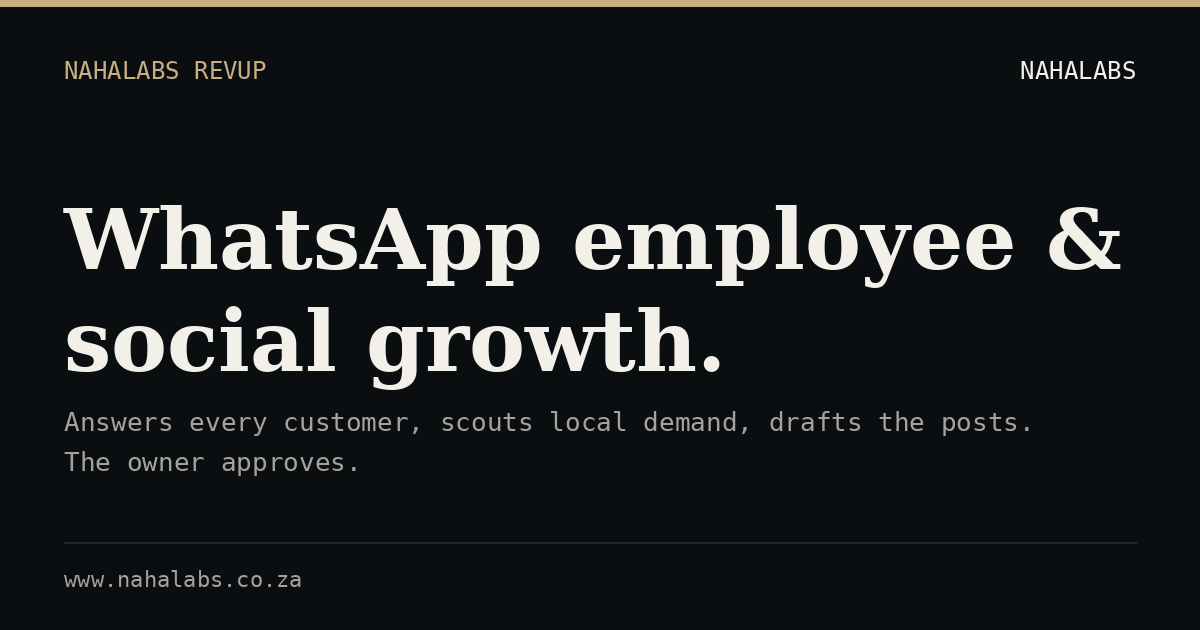
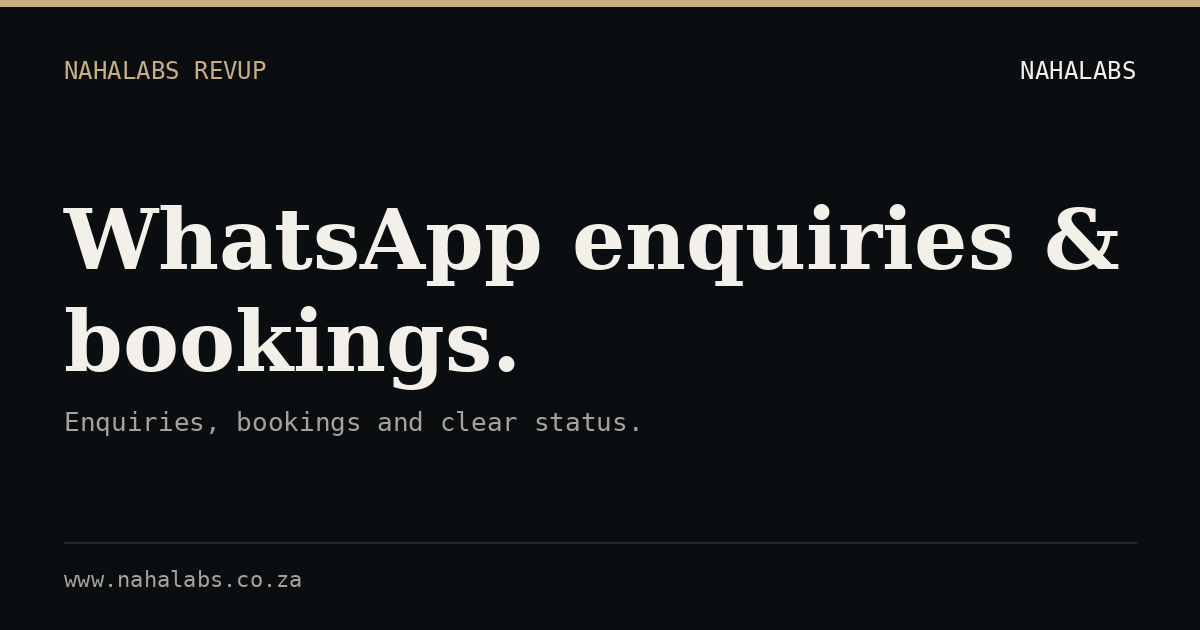
Align RevUp page with proven live capabilities and active app

diff --git a/src/components/RevUpPage.tsx b/src/components/RevUpPage.tsx
@@ -3,19 +3,17 @@ import { ArrowRight, ArrowUpRight, Check } from 'lucide-react';
 
 const SITE = 'https://www.nahalabs.co.za';
 const PATH = '/revup';
-const APP_URL = 'https://nahalabs-growth.onrender.com';
-const API_DOCS_URL = 'https://nahalabs-growth.onrender.com/api/v1/docs';
-const TITLE = 'RevUp | WhatsApp Employee & Social Growth Engine | NahaLabs';
+const APP_URL = 'https://revup.nahalabs.co.za';
+const API_DOCS_URL = 'https://revup.nahalabs.co.za/api/v1/docs';
+const TITLE = 'RevUp | WhatsApp Receptionist for Small Businesses | NahaLabs';
 const DESCRIPTION =
-  "RevUp is NahaLabs' growth system for restaurants and local businesses: pair the business WhatsApp in minutes, answer every customer, scout local demand and turn it into social posts the owner approves.";
+  "RevUp helps South African small businesses handle WhatsApp enquiries, calendar bookings and Google review requests.";
 
 const capabilities = [
-  ['WhatsApp employee', 'Answers menu, price, hours and booking questions on the business number, day and night. Every conversation is recorded for the owner.'],
-  ['Pairing in minutes', "Phone number and a one-time code on NahaLabs' own WhatsApp system. No Meta approval queue, no developer account, no waiting."],
-  ['Demand radar', 'Watches local food trends and what nearby customers are asking for, so the menu and the marketing move first.'],
-  ['Content agent', 'Turns demand signals and real customer questions into post drafts in the business voice. The owner steers niche, topics and pace - or switches it off.'],
-  ['Approval-first publishing', 'Nothing posts itself. Drafts land in a review queue; approved posts are scheduled and published to the connected social channels.'],
-  ['Inbox and analytics', 'One inbox for customer messages with drafted replies, plus per-post and per-channel analytics that show what the content earns.'],
+  ['WhatsApp receptionist', 'Handle customer enquiries on your business WhatsApp and hand over when a person should step in.'],
+  ['Calendar bookings', 'Keep booking requests and calendar availability together. A held booking is labelled honestly, not presented as confirmed.'],
+  ['Google review booster', 'A review-request capability for happy customers. Review the message and recipient before using it.'],
+  ['Plain-language numbers', 'See the workspace dashboard and analytics without technical jargon.'],
 ];
 
 const getJsonLd = () => ({
@@ -44,7 +42,7 @@ const getJsonLd = () => ({
       '@type': 'Service',
       '@id': SITE + PATH + '#service',
       name: 'RevUp',
-      serviceType: 'Customer engagement and social growth for restaurants and local businesses',
+      serviceType: 'WhatsApp enquiries and bookings for South African small businesses',
       provider: { '@id': SITE + '/#organization' },
       areaServed: { '@type': 'Country', name: 'South Africa' },
       url: SITE + PATH,
@@ -99,12 +97,12 @@ export const RevUpPage: React.FC = () => {
         <section className="section border-b border-line">
           <div className="wrap">
             <div className="max-w-4xl">
-              <p className="text-caption font-mono uppercase tracking-[0.2em] text-accent">NAHALABS / RESTAURANT &amp; LOCAL BUSINESS GROWTH</p>
+              <p className="text-caption font-mono uppercase tracking-[0.2em] text-accent">NAHALABS / SOUTH AFRICAN SMALL BUSINESSES</p>
               <h1 className="mt-5 text-display font-semibold tracking-tight">
-                Your WhatsApp line should do more than answer messages.
+                Never miss an enquiry. Keep control of the reply.
               </h1>
               <p className="mt-7 max-w-3xl text-lead text-fg-2">
-                RevUp is a growth system for restaurants and local businesses. It pairs with the business WhatsApp by phone number and code, answers every customer, scouts local demand and turns what it learns into social posts the owner approves before anything goes out.
+                RevUp helps South African small businesses handle WhatsApp enquiries, calendar bookings and Google review requests.
               </p>
               <div className="mt-8 flex flex-wrap gap-3">
                 <a href={APP_URL} className="btn btn-primary">
@@ -116,13 +114,12 @@ export const RevUpPage: React.FC = () => {
               </div>
             </div>
 
-            <div className="mt-14 grid md:grid-cols-5 border-y border-line">
+            <div className="mt-14 grid md:grid-cols-4 border-y border-line">
               {[
-                ['01', 'Pair', 'Phone number and a code. Live in minutes.'],
-                ['02', 'Answer', 'Every customer gets a reply, day and night.'],
-                ['03', 'Scout', 'Local demand surfaces before it is obvious.'],
-                ['04', 'Draft', 'Posts written from real trends and real chats.'],
-                ['05', 'Publish', 'The owner approves. The system posts.'],
+                ['01', 'Sign up', 'Create a private workspace. No payment at signup.'],
+                ['02', 'Enquiries', 'Set up the WhatsApp receptionist.'],
+                ['03', 'Bookings', 'Review calendar bookings and held requests.'],
+                ['04', 'Review', 'Check conversations and workspace numbers.'],
               ].map(([number, title, body]) => (
                 <div key={number} className="py-5 pr-5 border-b md:border-b-0 md:border-r last:border-r-0 border-line">
                   <div className="text-caption font-mono text-fg-3">{number}</div>
@@ -138,14 +135,14 @@ export const RevUpPage: React.FC = () => {
           <div className="wrap grid lg:grid-cols-2 gap-12">
             <div>
               <p className="text-caption font-mono uppercase tracking-[0.2em] text-accent">THE OLD WORKFLOW</p>
-              <h2 className="mt-3 text-h1 font-semibold">Missed message → lost customer → no time to post → invisible online.</h2>
+              <h2 className="mt-3 text-h1 font-semibold">Customer enquiries should not get lost in a busy day.</h2>
             </div>
             <div className="space-y-5 text-body leading-relaxed text-fg-2">
               <p>
-                Restaurants rarely lose business because the food is wrong. They lose it in the gaps: the lunch-time enquiry answered at four in the afternoon, the regular who never hears about the special, the social page that has not posted in three weeks because service comes first.
+                A small business needs a clear place for customer enquiries and booking requests, even when the owner is busy with the work.
               </p>
               <p>
-                RevUp is built around those gaps. The same system that answers the customer also watches what the neighbourhood is asking for, and turns both into content the owner reviews in minutes.
+                Start with a private workspace, set up the receptionist and review what it does.
               </p>
             </div>
           </div>
@@ -157,11 +154,11 @@ export const RevUpPage: React.FC = () => {
               <p className="text-caption font-mono uppercase tracking-[0.2em] text-accent">WHAT REVUP DOES</p>
               <h2 className="mt-3 text-h1 font-semibold">One system between the customer and the calendar.</h2>
               <p className="mt-5 text-body text-fg-2">
-                RevUp is not another inbox and not another scheduler. It is one working loop: talk to customers, learn what they want, publish what wins.
+                The current focus is enquiries, bookings and clear workspace information.
               </p>
             </div>
 
-            <div className="mt-10 grid md:grid-cols-2 lg:grid-cols-3 border-t border-line">
+            <div className="mt-10 grid md:grid-cols-2 lg:grid-cols-2 border-t border-line">
               {capabilities.map(([title, body]) => (
                 <article key={title} className="border-b border-r border-line p-6 min-h-40">
                   <h3 className="text-h3 font-semibold">{title}</h3>
@@ -176,17 +173,17 @@ export const RevUpPage: React.FC = () => {
           <div className="wrap grid lg:grid-cols-[0.8fr_1.2fr] gap-12">
             <div>
               <p className="text-caption font-mono uppercase tracking-[0.2em] text-accent">HOW IT WORKS</p>
-              <h2 className="mt-3 text-h1 font-semibold">Built around the way an owner actually runs the floor.</h2>
+              <h2 className="mt-3 text-h1 font-semibold">Start with your own private workspace.</h2>
             </div>
             <div>
               <ul className="rule-list">
                 {[
-                  'Pairs with the business WhatsApp by phone number and one-time code.',
-                  'Answers customer enquiries around the clock, in the tone of the house.',
-                  'Scans local demand signals and turns them into content ideas.',
-                  'Drafts posts for review - the owner approves, edits or discards each one.',
-                  'Schedules approved posts to the connected social channels.',
-                  'Records every message, draft and post as evidence the owner can check.',
+                  'Create an account without an email-verification gate or payment at signup.',
+                  'Start with an empty private workspace, not invented customer records.',
+                  'Set up the business WhatsApp receptionist and calendar connection.',
+                  'Review booking requests and their actual confirmation status.',
+                  'Keep customer work separate from other accounts.',
+                  'Use the get-started checklist to track setup.',
                 ].map((item) => (
                   <li key={item} className="flex items-start gap-3 text-body text-fg-2">
                     <Check className="w-4 h-4 mt-1 text-accent shrink-0" />
@@ -202,14 +199,11 @@ export const RevUpPage: React.FC = () => {
           <div className="wrap grid lg:grid-cols-2 gap-12">
             <div>
               <p className="text-caption font-mono uppercase tracking-[0.2em] text-accent">THE DIFFERENCE</p>
-              <h2 className="mt-3 text-h1 font-semibold">Most tools answer. RevUp hunts.</h2>
+              <h2 className="mt-3 text-h1 font-semibold">Clear status beats a promise.</h2>
             </div>
             <div className="space-y-5 text-body leading-relaxed text-fg-2">
               <p>
-                An answering bot waits for the phone to ring. RevUp works the quiet hours too: scouting what the area is asking for, watching which posts pull, and queueing the next draft before the owner asks.
-              </p>
-              <p>
-                Customer chats become content, content becomes reach, and reach becomes more customers. That loop is the product.
+                A booking request is not a confirmed booking until the calendar accepts it. RevUp labels a held request so the owner knows what still needs attention.
               </p>
             </div>
           </div>
@@ -223,10 +217,10 @@ export const RevUpPage: React.FC = () => {
             </div>
             <div className="space-y-5 text-body leading-relaxed text-fg-2">
               <p>
-                Every post waits in a review queue until a person approves it. The content agent takes direction on niche, topics and pace, and can be paused at any time.
+                Review conversations, follow setup steps and step in when a customer needs a person.
               </p>
               <p>
-                The 7-day trial runs the full system. When it ends, the workspace pauses and NahaLabs helps the owner choose the right plan - nothing is charged and nothing is lost.
+                Free for 7 days, then from R499 a month. Cancel anytime. No payment is taken at signup.
               </p>
             </div>
           </div>
@@ -240,7 +234,7 @@ export const RevUpPage: React.FC = () => {
             </div>
             <div className="space-y-5 text-body leading-relaxed text-fg-2">
               <p>
-                Every workspace includes a public API and an MCP endpoint: scoped keys for drafts, scheduling, media, inbox and analytics, so an operator&apos;s own systems can run the desk programmatically.
+                Read the current API documentation if you want to connect your own workflow.
               </p>
               <p>
                 <a href={API_DOCS_URL} className="link">
@@ -258,7 +252,7 @@ export const RevUpPage: React.FC = () => {
                 <p className="text-caption font-mono uppercase tracking-[0.2em] text-accent">START THIS WEEK</p>
                 <h2 className="mt-3 text-h1 font-semibold">Put your number to work.</h2>
                 <p className="mt-4 max-w-2xl text-body text-fg-2">
-                  Pair the business WhatsApp, watch the first drafts arrive and approve what goes out. The trial runs the full system for 7 days; after that the workspace pauses until you choose a plan with NahaLabs.
+                  Create your private workspace and follow the setup checklist. Free for 7 days, then from R499 a month. No payment at signup.
                 </p>
               </div>
               <a href={APP_URL} className="btn btn-primary shrink-0">

diff --git a/src/components/Footer.tsx b/src/components/Footer.tsx
@@ -226,7 +226,7 @@ export const Footer: React.FC<FooterProps> = ({
                 <a href="/audit" className={`${linkCls} block`}>Free website audit</a>
               </li>
               <li>
-                <a href="/revenuedesk" className={`${linkCls} block`}>RevenueDesk</a>
+                <a href="/revup" className={`${linkCls} block`}>RevUp</a>
               </li>
             </ul>
           </nav>
@@ -236,7 +236,7 @@ export const Footer: React.FC<FooterProps> = ({
             <h2 className="text-sm font-semibold text-fg">Apps</h2>
             <ul className="mt-4 flex flex-col">
               {[
-                ['/revenuedesk', 'RevenueDesk'],
+                ['/revup', 'RevUp'],
                 ['/bankbook', 'BankBook'],
                 ['/cargo-iq', 'CargoIQ'],
                 ['/nutri-tummies', 'Nutri Tummies'],

diff --git a/src/components/Navbar.tsx b/src/components/Navbar.tsx
@@ -17,9 +17,8 @@ const PAGES = [
 ];
 
 const PRODUCTS = [
-  { href: '/revenuedesk', label: 'RevenueDesk', note: 'Front desk for service businesses' },
   { href: '/#flavourly', label: 'Flavourly', note: 'Restaurant Revenue OS' },
-  { href: '/revup', label: 'RevUp', note: 'WhatsApp employee & social growth' },
+  { href: '/revup', label: 'RevUp', note: 'WhatsApp enquiries & bookings' },
   { href: '/cargo-iq', label: 'CargoIQ', note: 'Freight evidence and dispute intelligence' },
   { href: '/fieldproof', label: 'FieldProof', note: 'Field evidence for telecom crews' },
   { href: '/netpulse', label: 'NetPulse', note: 'Network inventory clean-up' },

diff --git a/scripts/generate-og-images.py b/scripts/generate-og-images.py
@@ -26,7 +26,7 @@ CARDS = [
     ('contact', 'CONTACT', 'Tell us what should work better.', 'Start an enquiry with NahaLabs.'),
     ('audit', 'FREE WEBSITE REVENUE LEAK AUDIT', 'Where is your website losing enquiries?', 'A free diagnosis of conversion, trust, mobile and technical leaks.'),
     ('revenuedesk', 'NAHALABS REVENUEDESK', 'Front desk & revenue recovery.', 'Capture every enquiry. Recover the revenue between contact and booked work.'),
-    ('revup', 'NAHALABS REVUP', 'WhatsApp employee & social growth.', 'Answers every customer, scouts local demand, drafts the posts. The owner approves.'),
+    ('revup', 'NAHALABS REVUP', 'WhatsApp enquiries & bookings.', 'Enquiries, bookings and clear status.'),
     ('bankbook', 'NAHALABS BANKBOOK', 'Invoice & bank review desk.', 'Check extracted invoice data against its source. Sample data. Fictional records.'),
     ('cargo-iq', 'NAHALABS CARGOIQ', 'Freight evidence and dispute intelligence.', 'Operational evidence, commercial rules, financial exposure.'),
     ('nutri-tummies', 'NAHALABS NUTRI TUMMIES', 'Family meal planning for SA kitchens.', 'Family meal planning for South African kitchens.'),
